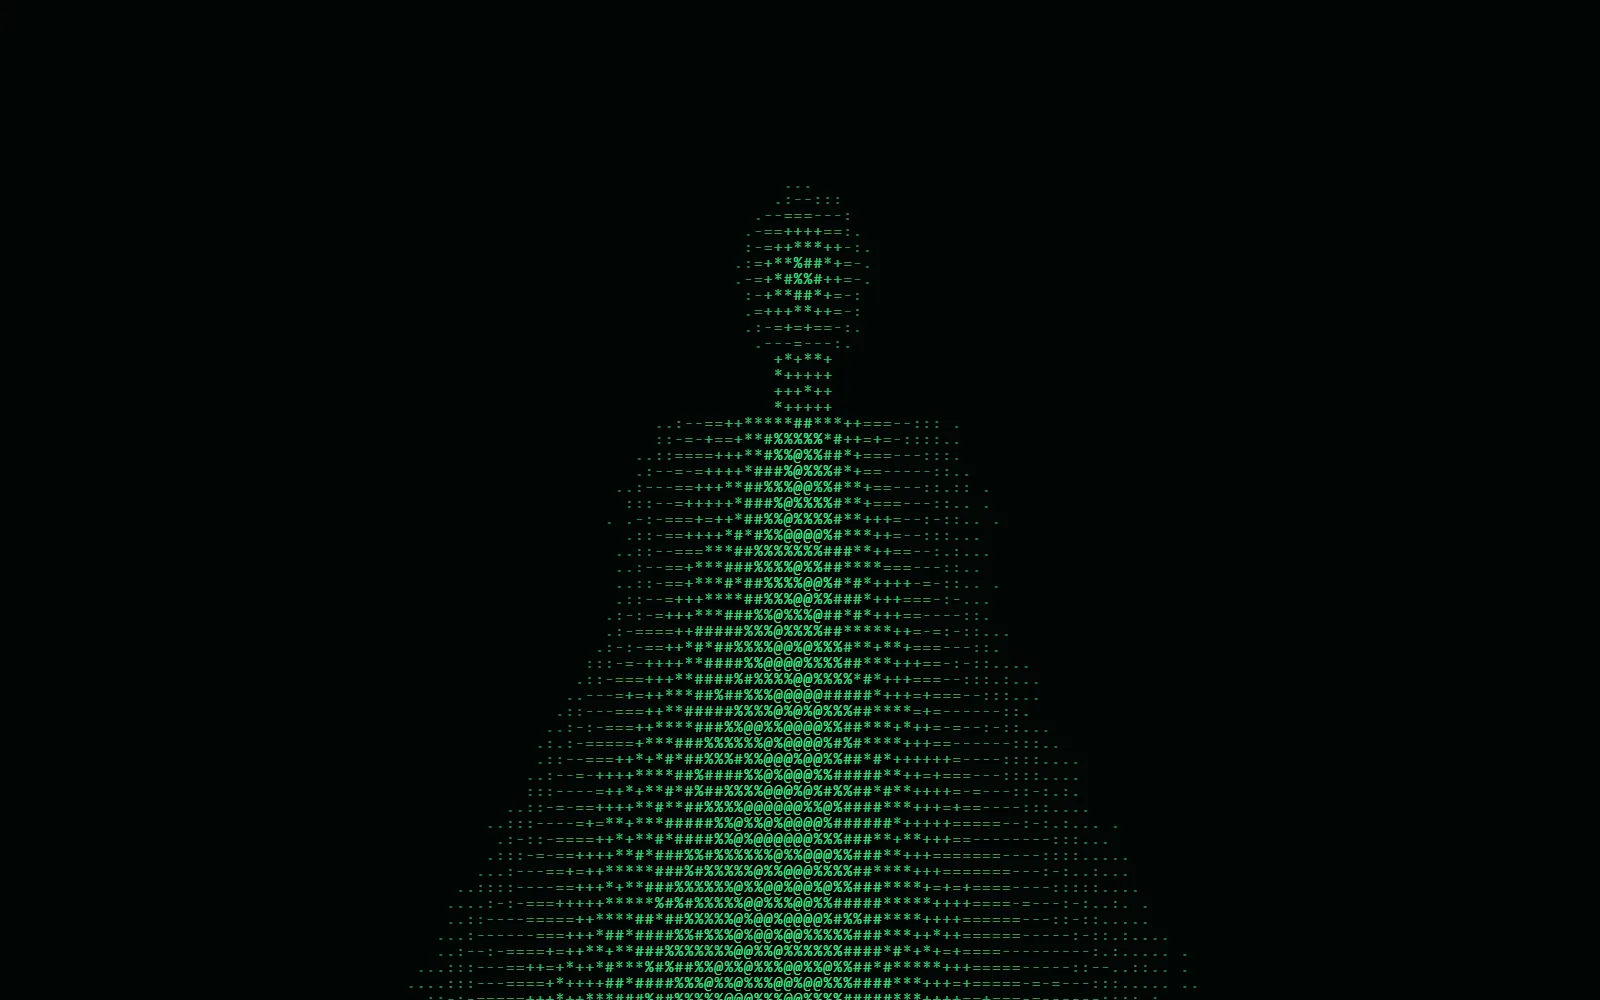
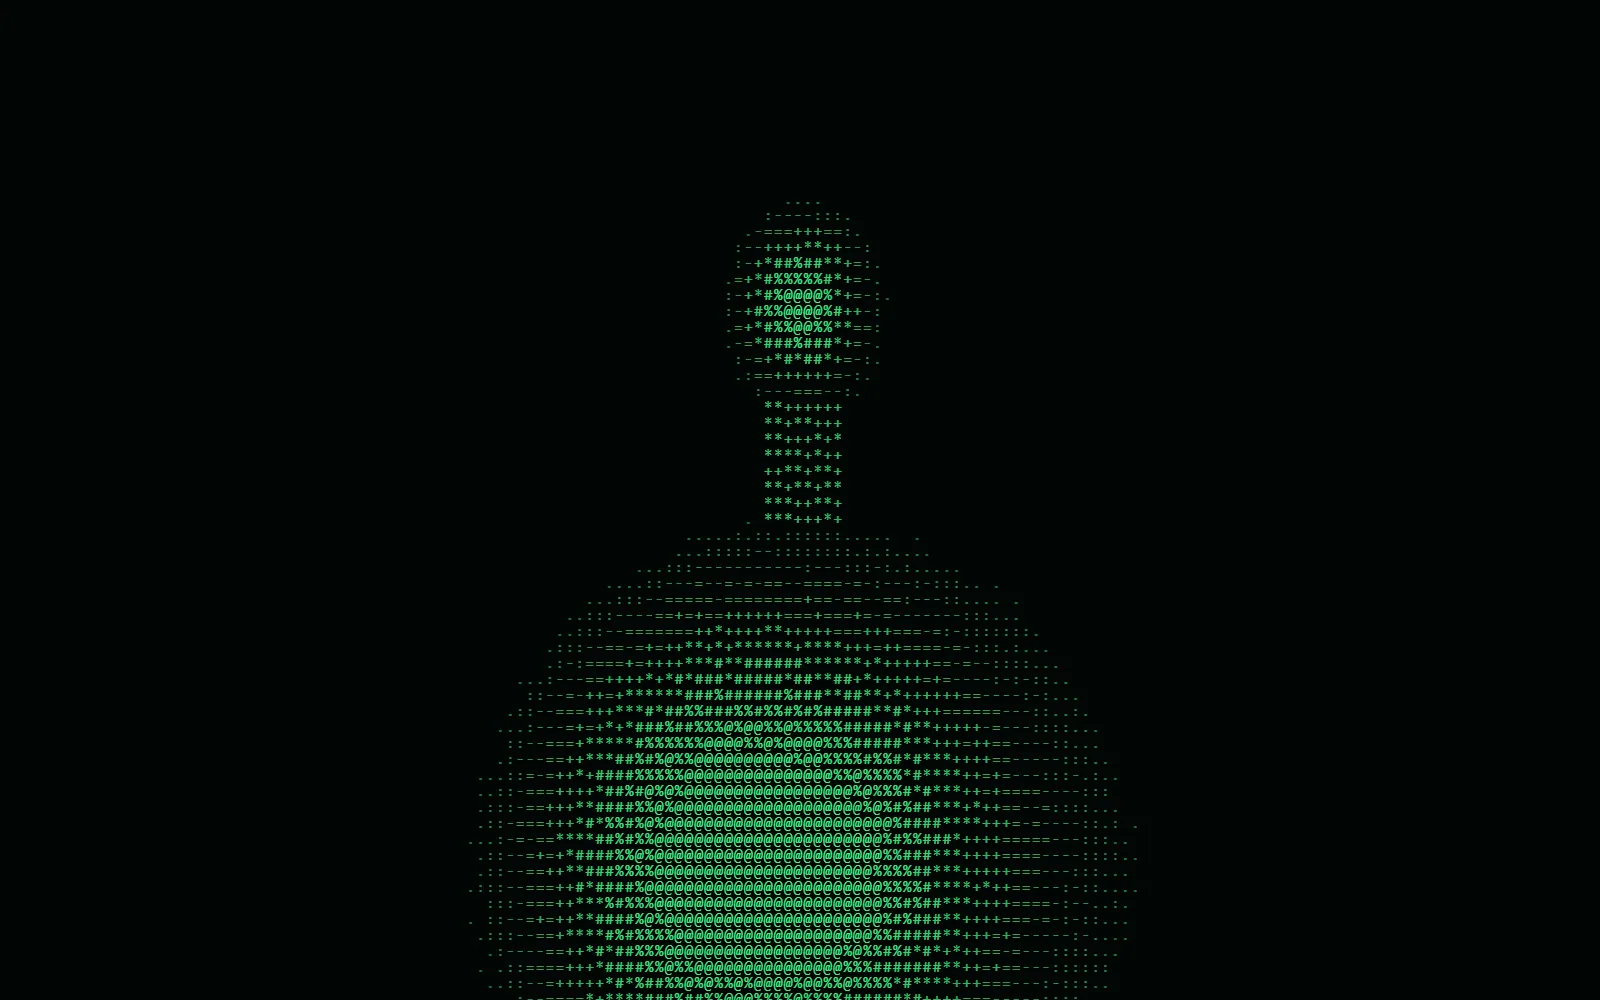
fix: redraw ASCII cover as a rounded head-and-shoulders bust

Changed region(s): [[0.3125, 0.248, 0.6562, 1.0], [0.625, 0.992, 0.6875, 1.0]]

diff --git a/tools/covers/ascii.html b/tools/covers/ascii.html
@@ -12,13 +12,11 @@
   const clamp = (v) => Math.max(0, Math.min(1, v));
   // A head-and-shoulders silhouette lit from the left, in square coordinates (0..1).
   function figure(u, v) {
-    const head = 1 - Math.hypot((u - 0.5) / 0.07, (v - 0.27) / 0.1);
-    const neck = Math.abs(u - 0.5) < 0.028 && v > 0.35 && v < 0.43 ? 0.55 : 0;
-    const half = 0.1 + Math.max(0, v - 0.42) * 0.55;
-    const shoulders = v > 0.41 ? 1 - Math.abs(u - 0.5) / Math.min(0.2, half + 0.06) : 0;
-    const torso = v > 0.43 ? (1 - Math.abs(u - 0.5) / half) * 1.1 : 0;
-    const light = 0.55 + 0.45 * clamp(1 - (u - 0.38) / 0.3);
-    return clamp(Math.max(head, neck, shoulders * 0.8, torso) * light);
+    const head = 1 - Math.hypot((u - 0.5) / 0.085, (v - 0.3) / 0.115);
+    const neck = Math.abs(u - 0.5) < 0.04 && v > 0.39 && v < 0.52 ? 0.6 : 0;
+    const body = 1 - Math.hypot((u - 0.5) / 0.34, (v - 0.86) / 0.36); // rounded shoulders, top near v = 0.50
+    const light = 0.55 + 0.45 * clamp(1 - (u - 0.36) / 0.34);         // lit from the left
+    return clamp(Math.max(head * 1.4, neck, body * 1.6) * light);
   }
   const cell = 16, cw = cell * 0.62;
   g.fillStyle = '#020604';
